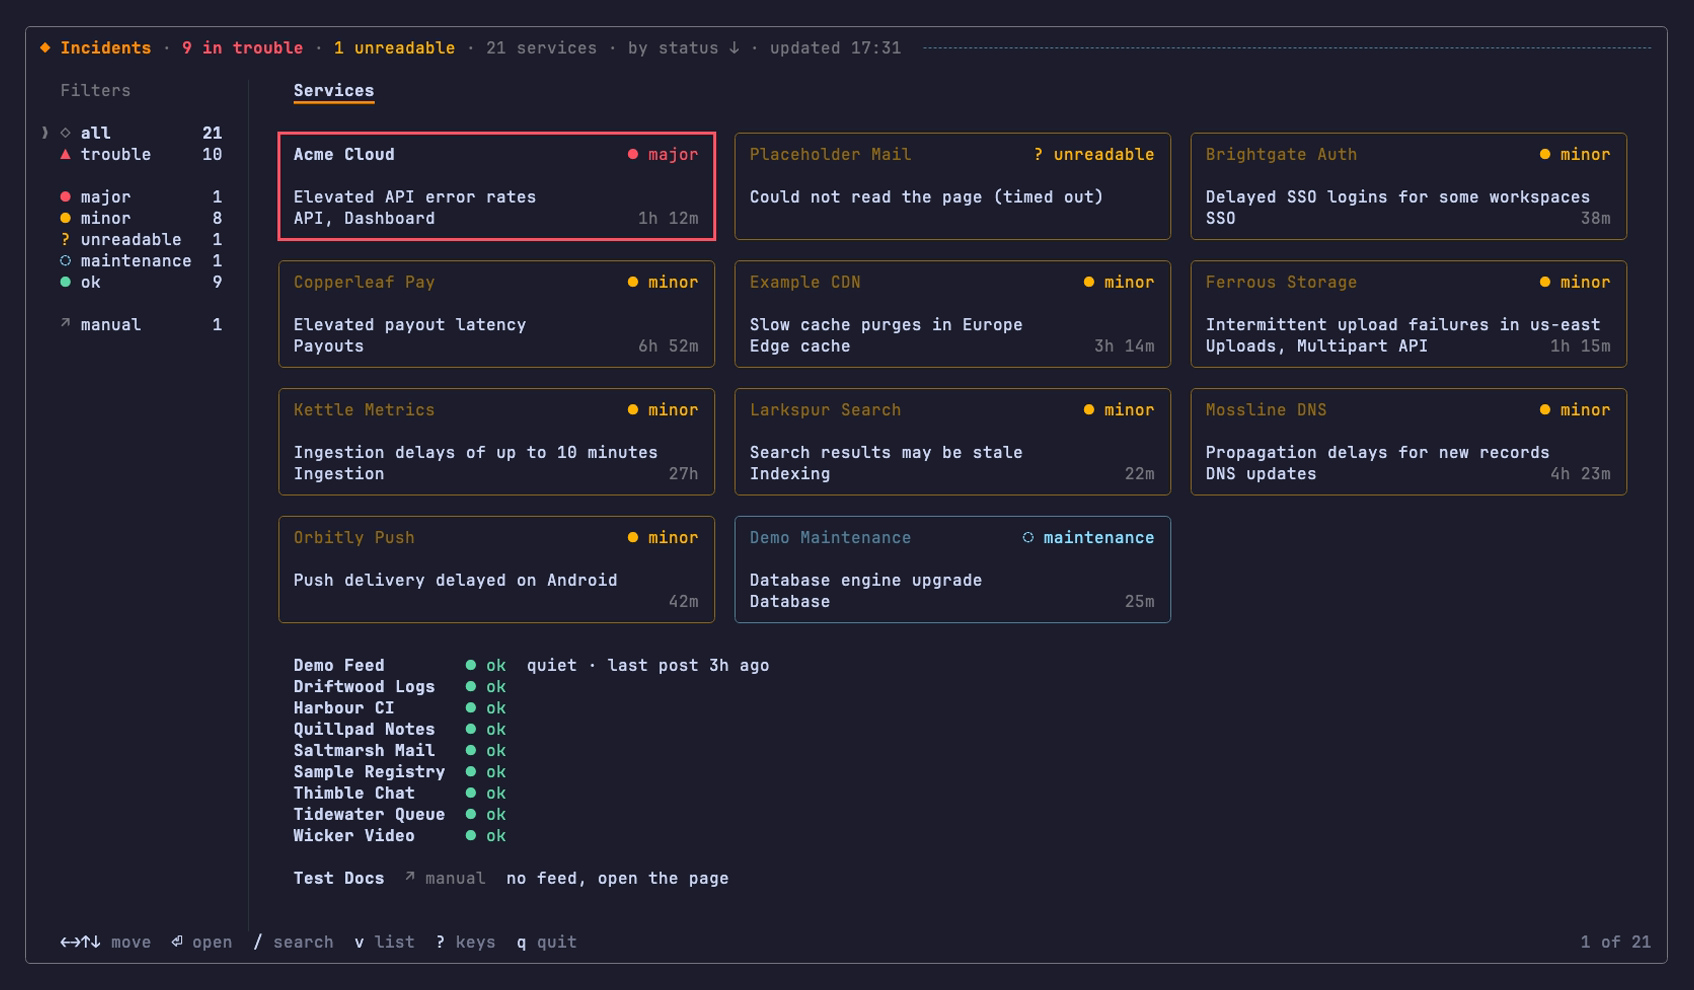
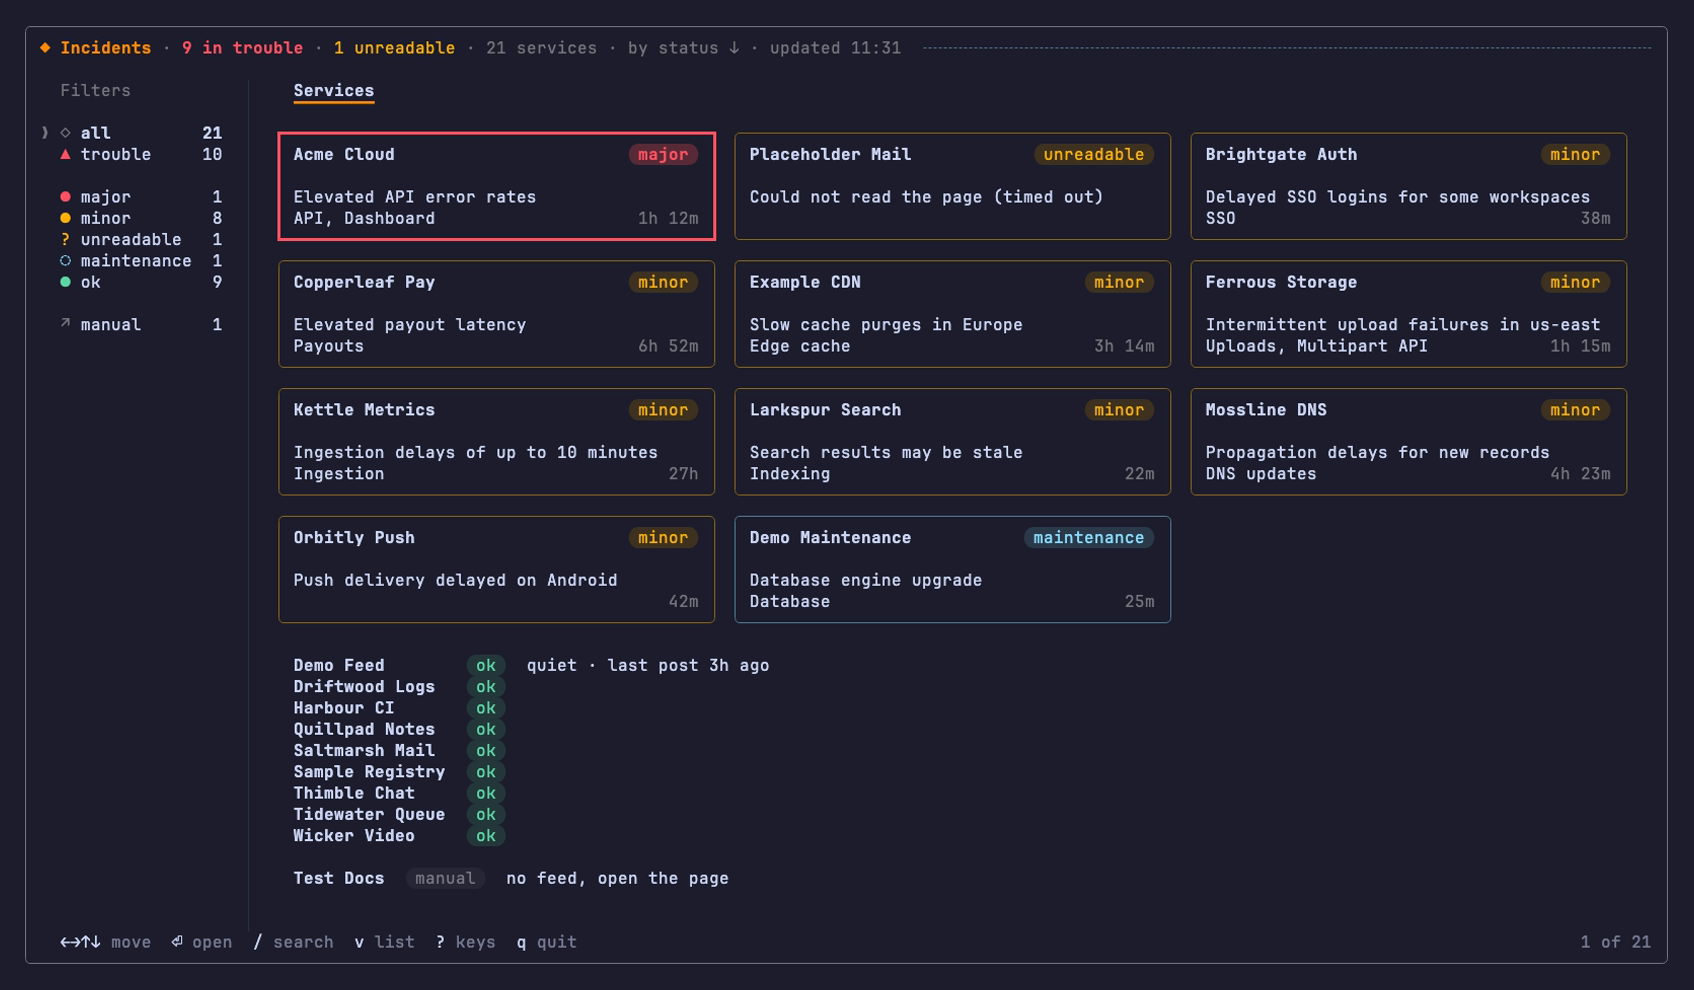
📝 docs(readme): update board screenshot alt text
- Change the README alt text for the board screenshot so healthy services are described as one line each, not a grid
- Re-export assets/board.png (file size 349 kB to 352 kB) so the image matches the updated description

diff --git a/README.md b/README.md
@@ -25,7 +25,7 @@ It reads each vendor's own status page, worst first, and tells you what they hav
 - **Scriptable** — `--json` on every form, meaningful exit codes, static output whenever there is no TTY
 - **Configurable** — 21 built-in services, plus any Statuspage, RSS feed or plain link you add
 
-![The board: a filter column that doubles as the tally, a card per service in trouble, the healthy ones in a grid](assets/board.png)
+![The board: a filter column that doubles as the tally, a card per service in trouble, the healthy ones a line each](assets/board.png)
 
 ![The list (v): every service, worst first, with a preview of the selected one](assets/list.png)
 
